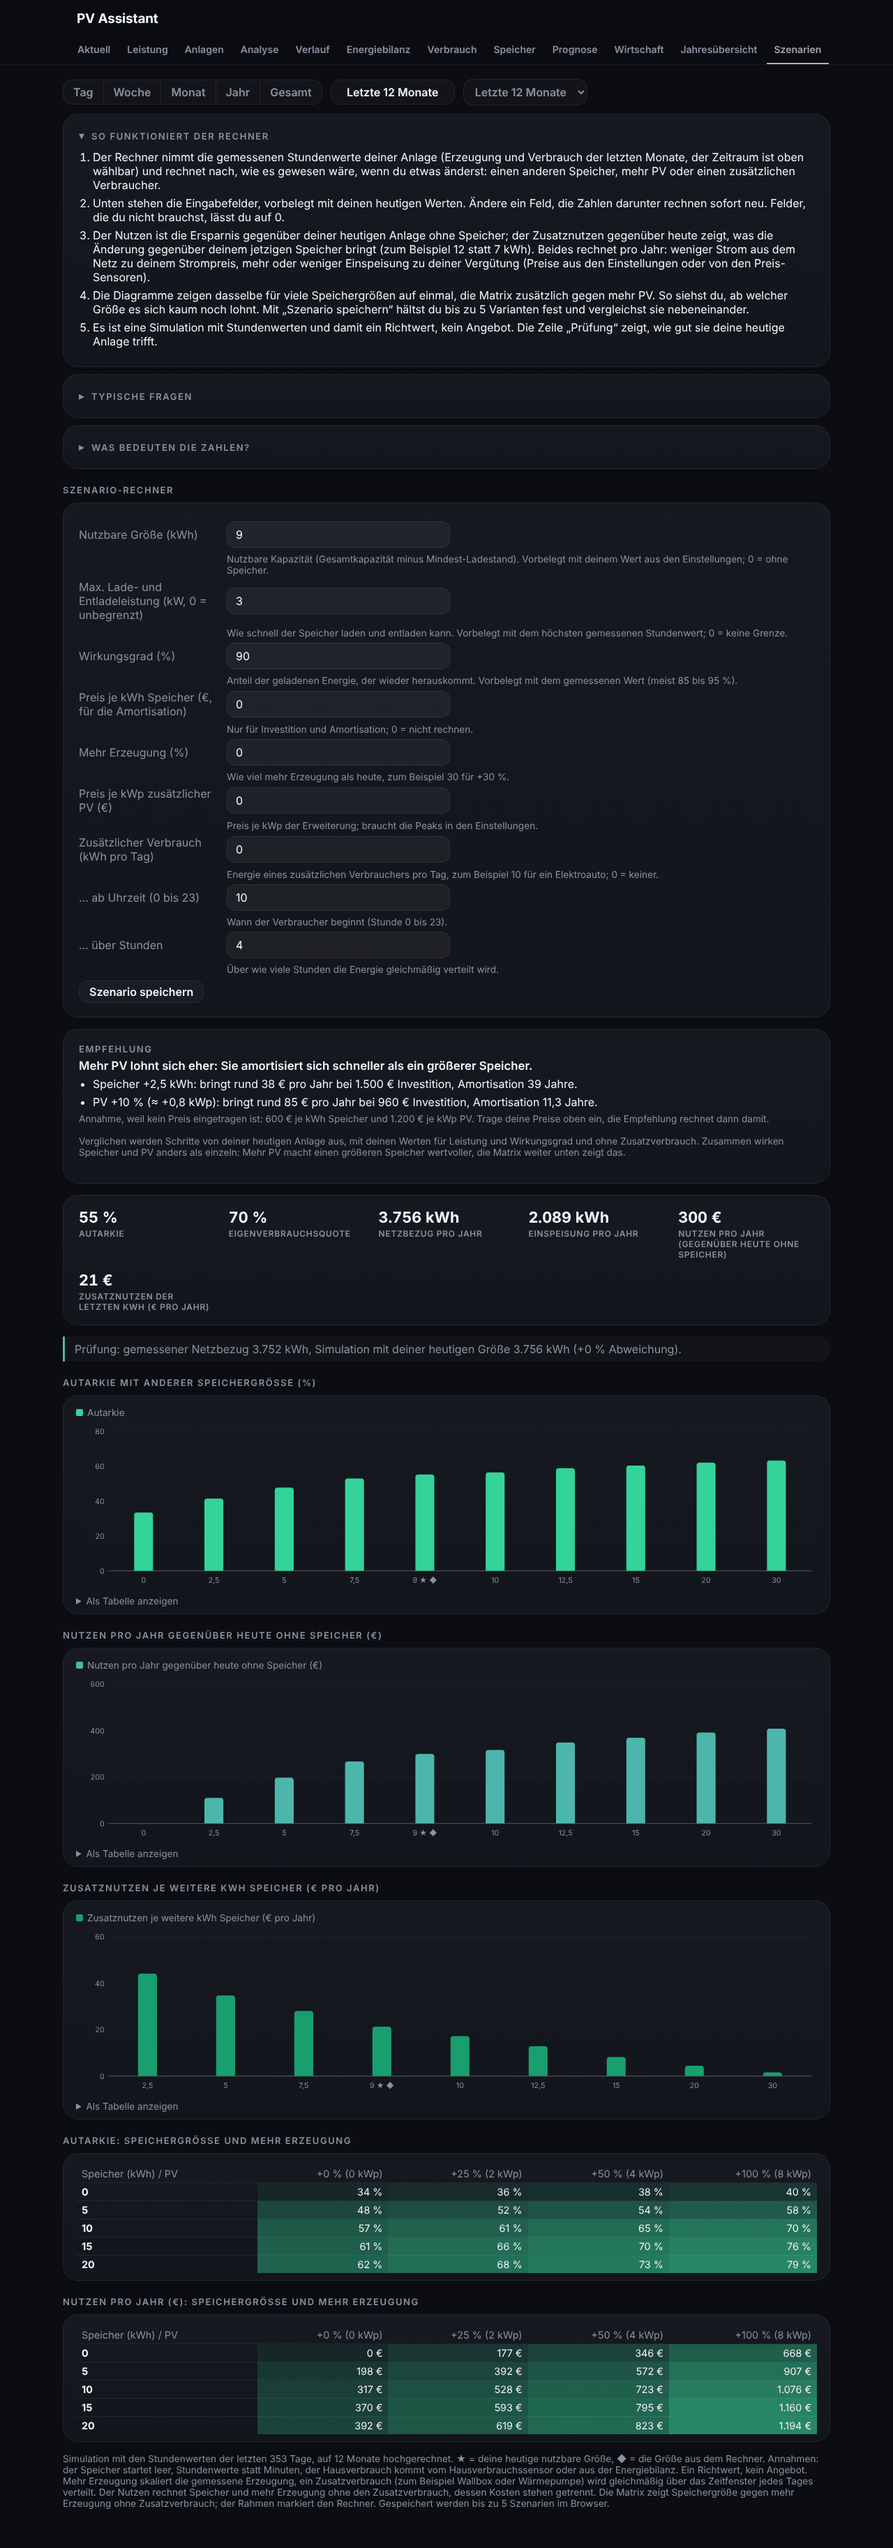
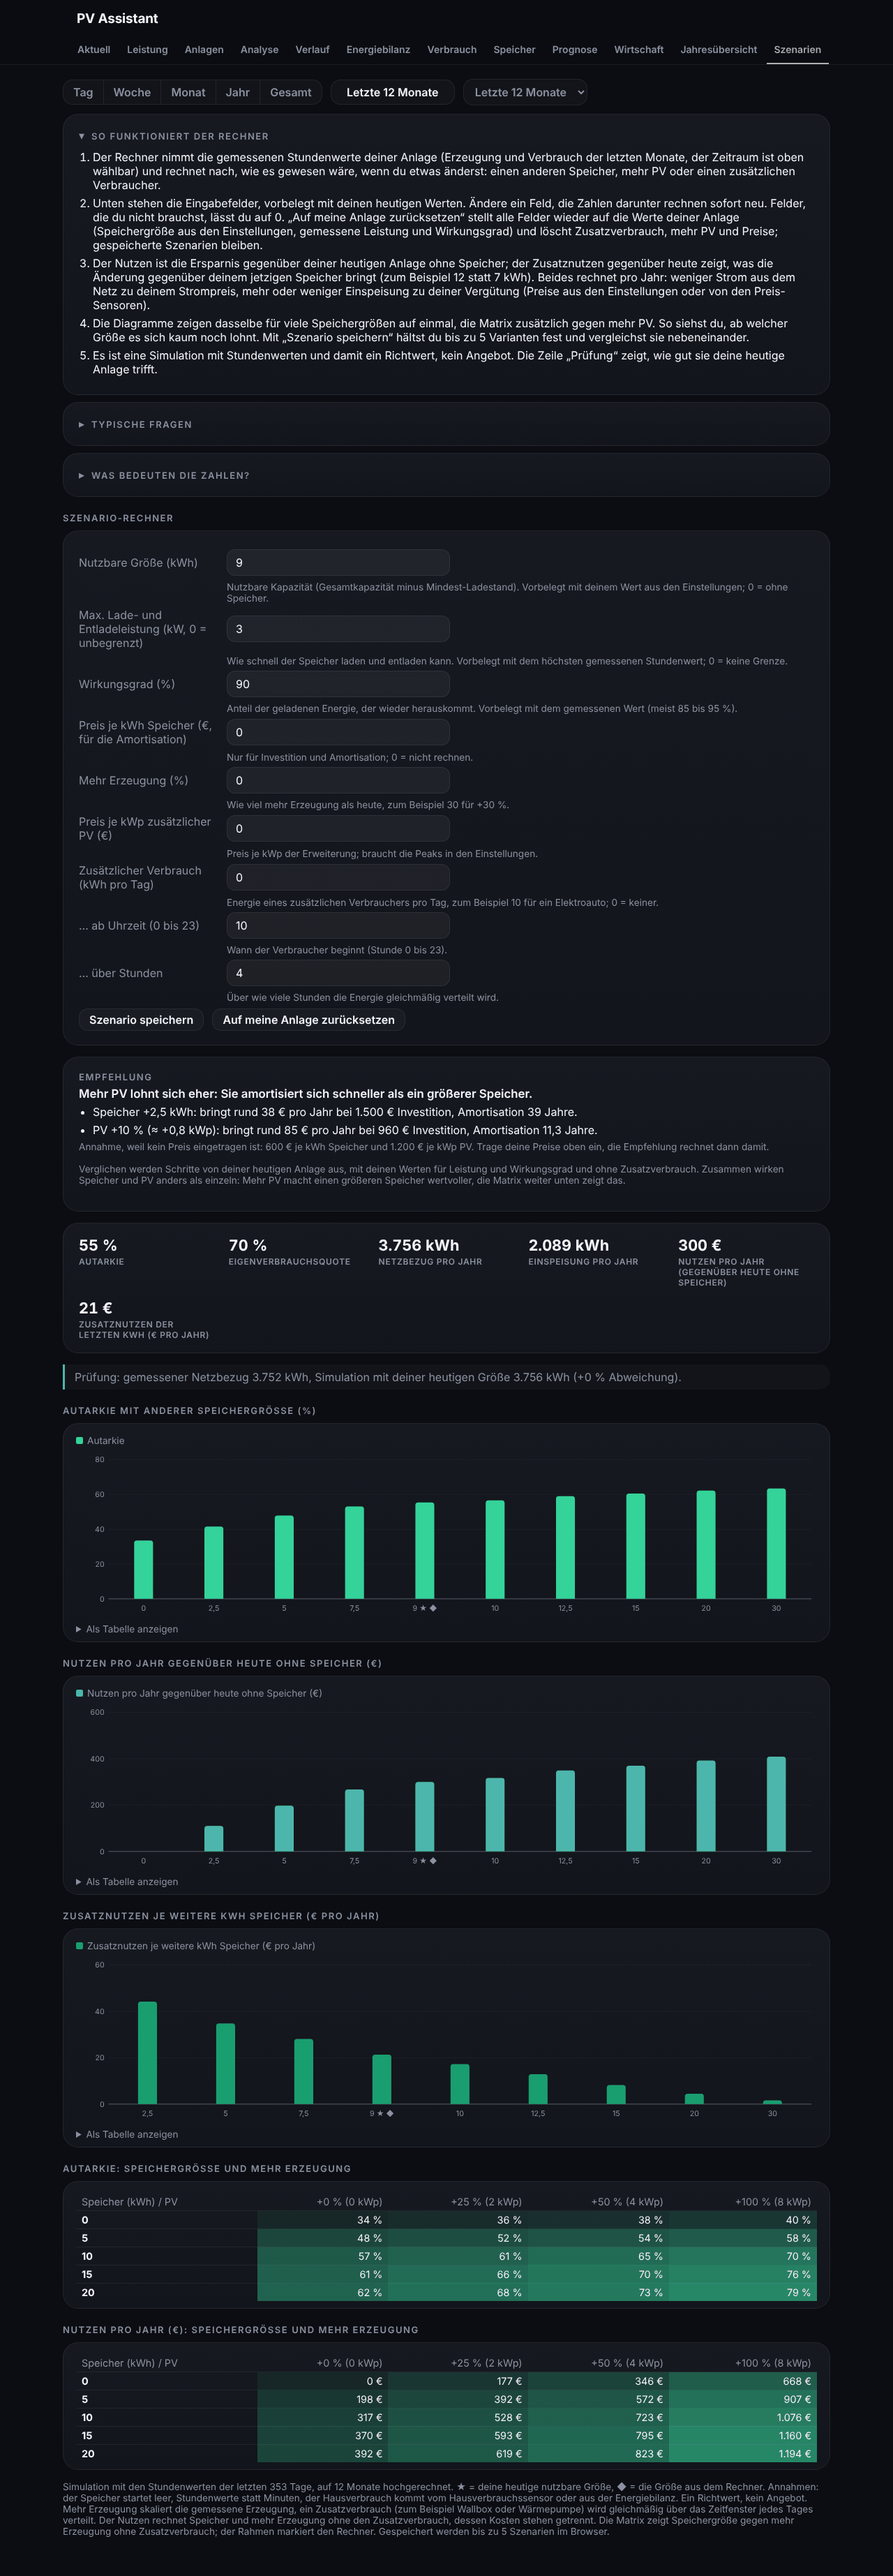
Scenario calculator: a reset button that puts the fields back to the values of the plant
Claude-Session: https://claude.ai/code/session_01TaJYM5KB2UjSXtUd6GEyfY

diff --git a/custom_components/pv_assistant/frontend/pv-assistant-texts.js b/custom_components/pv_assistant/frontend/pv-assistant-texts.js
@@ -145,7 +145,7 @@ export const T = {
     // explanation in the scenarios tab
     scnIntroTitle: "So funktioniert der Rechner",
     scnIntro1: "Der Rechner nimmt die gemessenen Stundenwerte deiner Anlage (Erzeugung und Verbrauch der letzten Monate, der Zeitraum ist oben wählbar) und rechnet nach, wie es gewesen wäre, wenn du etwas änderst: einen anderen Speicher, mehr PV oder einen zusätzlichen Verbraucher.",
-    scnIntro2: "Unten stehen die Eingabefelder, vorbelegt mit deinen heutigen Werten. Ändere ein Feld, die Zahlen darunter rechnen sofort neu. Felder, die du nicht brauchst, lässt du auf 0.",
+    scnIntro2: "Unten stehen die Eingabefelder, vorbelegt mit deinen heutigen Werten. Ändere ein Feld, die Zahlen darunter rechnen sofort neu. Felder, die du nicht brauchst, lässt du auf 0. „Auf meine Anlage zurücksetzen“ stellt alle Felder wieder auf die Werte deiner Anlage (Speichergröße aus den Einstellungen, gemessene Leistung und Wirkungsgrad) und löscht Zusatzverbrauch, mehr PV und Preise; gespeicherte Szenarien bleiben.",
     scnIntro3: "Der Nutzen ist die Ersparnis gegenüber deiner heutigen Anlage ohne Speicher; der Zusatznutzen gegenüber heute zeigt, was die Änderung gegenüber deinem jetzigen Speicher bringt (zum Beispiel 12 statt 7 kWh). Beides rechnet pro Jahr: weniger Strom aus dem Netz zu deinem Strompreis, mehr oder weniger Einspeisung zu deiner Vergütung (Preise aus den Einstellungen oder von den Preis-Sensoren).",
     scnIntro4: "Die Diagramme zeigen dasselbe für viele Speichergrößen auf einmal, die Matrix zusätzlich gegen mehr PV. So siehst du, ab welcher Größe es sich kaum noch lohnt. Mit „Szenario speichern“ hältst du bis zu 5 Varianten fest und vergleichst sie nebeneinander.",
     scnIntro5: "Es ist eine Simulation mit Stundenwerten und damit ein Richtwert, kein Angebot. Die Zeile „Prüfung“ zeigt, wie gut sie deine heutige Anlage trifft.",
@@ -185,6 +185,7 @@ export const T = {
     recPvNoPeak: "PV: ohne die Peaks der Strings in den Einstellungen lässt sich die Größe einer Erweiterung nicht in kWp und Kosten umrechnen.",
     recAssumed: "Annahme, weil kein Preis eingetragen ist: {s} je kWh Speicher und {p} je kWp PV. Trage deine Preise oben ein, die Empfehlung rechnet dann damit.",
     recNote: "Verglichen werden Schritte von deiner heutigen Anlage aus, mit deinen Werten für Leistung und Wirkungsgrad und ohne Zusatzverbrauch. Zusammen wirken Speicher und PV anders als einzeln: Mehr PV macht einen größeren Speicher wertvoller, die Matrix weiter unten zeigt das.",
+    simReset: "Auf meine Anlage zurücksetzen",
   },
   en: {
     title: "PV Assistant", energy: "Energy sensors (kWh)", power: "Power sensors (W)",
@@ -331,7 +332,7 @@ export const T = {
     // explanation in the scenarios tab
     scnIntroTitle: "How the calculator works",
     scnIntro1: "The calculator takes the measured hourly values of your plant (production and consumption of the last months, the range is selectable above) and works out what would have happened if you changed something: another storage, more PV or an additional consumer.",
-    scnIntro2: "The input fields are below, filled with your current values. Change a field and the numbers below recalculate at once. Leave the fields you do not need at 0.",
+    scnIntro2: "The input fields are below, filled with your current values. Change a field and the numbers below recalculate at once. Leave the fields you do not need at 0. “Reset to my plant” puts all fields back to the values of your plant (storage size from the settings, measured power and efficiency) and clears extra consumption, more PV and prices; saved scenarios stay.",
     scnIntro3: "The benefit is the saving against your plant as it is today without a storage; the extra benefit against today shows what the change brings compared with your current storage (for example 12 instead of 7 kWh). Both are calculated per year: less power from the grid at your electricity price, more or less feed-in at your tariff (prices from the settings or the price sensors).",
     scnIntro4: "The charts show the same for many storage sizes at once, the matrix also against more PV. That shows from which size it hardly pays off. With “Save the scenario” you keep up to 5 variants and compare them side by side.",
     scnIntro5: "It is a simulation with hourly values and therefore a guide value, not an offer. The line “Check” shows how well it matches your plant today.",
@@ -371,5 +372,6 @@ export const T = {
     recPvNoPeak: "PV: without the peaks of the strings in the settings the size of an extension cannot be converted into kWp and cost.",
     recAssumed: "Assumption because no price is entered: {s} per kWh of storage and {p} per kWp of PV. Enter your prices above and the recommendation uses them.",
     recNote: "Steps are compared from your plant as it is today, with your values for power and efficiency and without the extra consumption. Storage and PV act differently together than alone: more PV makes a bigger storage more valuable, the matrix further down shows that.",
+    simReset: "Reset to my plant",
   },
 };

diff --git a/custom_components/pv_assistant/frontend/pv-assistant-tab-scenarios.js b/custom_components/pv_assistant/frontend/pv-assistant-tab-scenarios.js
@@ -71,7 +71,7 @@ export class ScenariosPart {
       <div class="setcard" id="simform">
         ${SIM_ROWS.map(([id, label, hint, attrs]) => `<div class="setrow"><label for="${id}">${esc(this._t(label))}</label><input type="number" id="${id}" ${attrs}>
           <span class="hint">${esc(this._t(hint))}${id === "simpv" ? ' <b id="simpvhint"></b>' : ""}</span></div>`).join("")}
-        <div class="setbar"><button class="setbtn" id="simsave">${esc(this._t("simSave"))}</button></div></div>
+        <div class="setbar"><button class="setbtn" id="simsave">${esc(this._t("simSave"))}</button><button class="setbtn" id="simreset">${esc(this._t("simReset"))}</button></div></div>
       <div class="setcard" id="simrec" hidden></div>
       <div class="tiles" id="simtiles"></div><ul class="hints" id="simhints"></ul>
       <h3 class="ch">${esc(this._t("stoSimAut"))}</h3><div class="chart" id="sosimaut"></div>
@@ -90,6 +90,7 @@ export class ScenariosPart {
       });
     }
     box.querySelector("#simsave")?.addEventListener("click", () => this._simSave());
+    box.querySelector("#simreset")?.addEventListener("click", () => { if (this._scn) this._simSetState(this._simFresh()); });
   }
 
   // hourly values of the range, at most the last 12 months (at least 7 days are needed)
@@ -156,15 +157,28 @@ export class ScenariosPart {
     if (!this._simState) {
       let saved = null;
       try { saved = JSON.parse(localStorage.getItem("pv_assistant_sim") || "null"); } catch (e) { saved = null; }
-      const c = this._scn;
-      const fresh = { cap: Math.round((c.usableNow || 10) * 10) / 10, power: c.powerMeasured, eff: Math.round(c.effMeasured * 100), price: 0 };
-      this._simState = { ...SIM_DEFAULTS, ...(saved && Number.isFinite(saved.cap) ? saved : fresh) };
-      for (const [id, key2] of SIM_FIELDS) {
-        const input = root.getElementById(id);
-        if (input) input.value = Number.isFinite(this._simState[key2]) ? String(this._simState[key2]) : "";
-      }
+      // the first time a storage is suggested when there is none, so that the charts show something
+      const fresh = this._simFresh();
+      this._simSetState(saved && Number.isFinite(saved.cap) ? { ...SIM_DEFAULTS, ...saved } : { ...fresh, cap: fresh.cap || 10 }, false);
     }
     this._drawScenarioSim();
+  }
+
+  // the values of the plant as it is: the usable size of the storage, the measured power and efficiency, no extras, no prices
+  _simFresh() {
+    const c = this._scn;
+    return { ...SIM_DEFAULTS, cap: Math.round(c.usableNow * 10) / 10, power: c.powerMeasured, eff: Math.round(c.effMeasured * 100), price: 0 };
+  }
+
+  // puts the values into the form, remembers them and (unless it is the first drawing) calculates again
+  _simSetState(state, redraw = true) {
+    this._simState = state;
+    for (const [id, key] of SIM_FIELDS) {
+      const input = this._root.getElementById(id);
+      if (input) input.value = Number.isFinite(state[key]) ? String(state[key]) : "";
+    }
+    try { localStorage.setItem("pv_assistant_sim", JSON.stringify(state)); } catch (e) { /* storage unavailable */ }
+    if (redraw) this._drawScenarioSim();
   }
 
   _simNum(id) {
@@ -338,9 +352,7 @@ export class ScenariosPart {
           saved.splice(idx, 1);
           try { localStorage.setItem("pv_assistant_sim_saved", JSON.stringify(saved)); } catch (e) { /* storage unavailable */ }
         } else {
-          this._simState = { ...SIM_DEFAULTS, ...saved[idx].st };
-          for (const [id, key2] of SIM_FIELDS) { const input = root.getElementById(id); if (input) input.value = String(this._simState[key2]); }
-          try { localStorage.setItem("pv_assistant_sim", JSON.stringify(this._simState)); } catch (e) { /* storage unavailable */ }
+          this._simSetState({ ...SIM_DEFAULTS, ...saved[idx].st }, false);
         }
         this._drawScenarioSim();
       }));

diff --git a/wiki/Panel-Tabs.md b/wiki/Panel-Tabs.md
@@ -116,6 +116,7 @@ Monthly production of the selected year next to the monthly average, deviation i
 
 Needs production and the house consumption (or grid import and feed-in) as energy sensors; a storage is not required. It uses the hourly values of the range (at most the last 12 months, at least 7 days), scaled to a year.
 The calculator answers "is it worth to raise the storage from 7 to 12 kWh?": it calculates the hours of the range again with the new size and shows the **extra benefit against today** (what the change brings compared with your current storage), the investment of only the added kWh and the payback of the extension. A **recommendation** below the input fields compares, starting from your plant today, steps for the storage (+2.5, +5, +10 kWh) and for the PV (+10, +25, +50 %) and names the extension with the shortest payback (what takes longer than 25 years does not count); without entered prices it assumes 600 € per kWh and 1,200 € per kWp and says so.
+The button **Reset to my plant** puts all fields back to the values of your plant (usable storage size from the settings, measured power and efficiency) and clears more PV, extra consumption and prices; saved scenarios stay.
 The tab explains itself: at the top three folding boxes describe how the calculator works, answer typical questions (is a bigger storage worth it, what does a wallbox bring, is more PV worth it) and explain every number; every input field has a hint with the pre-filled value.
 - **Scenario calculator**: enter the usable size, the maximum charge and discharge power, the efficiency and, for the payback, the price per kWh (the values are remembered in the browser). The panel shows self-sufficiency, self-consumption rate, grid import and feed-in per year, the benefit per year against no storage, the extra benefit of the last kWh, the investment and the payback, plus charts of self-sufficiency, benefit and the **extra benefit per further kWh** over the storage size (★ = your size, ◆ = the size in the calculator). It uses the hourly values of the last 30 days to 12 months scaled to a year and checks itself: with your current size it simulates the grid import and compares it with the measured one (a deviation over 15 % means rough guide values). Beyond the storage the calculator can also try **more production** (in percent, with the kWp it means and a price per kWp for the payback) and an **extra consumption** such as a wallbox or a heat pump (kWh per day over a time window of the day): it shows how much of it PV and storage cover and what it costs per kWh. A **matrix** shows self-sufficiency and benefit per year for storage size against more production, and up to 5 **scenarios can be saved** (in the browser) and compared side by side. Needs production and the house consumption (or grid import and feed-in) as energy sensors; a guide value, not an offer
 
@@ -242,6 +243,7 @@ Monatserzeugung des gewählten Jahres neben dem Monatsschnitt, Abweichung in Pro
 
 Braucht Erzeugung und Hausverbrauch (oder Netzbezug und Einspeisung) als Energiesensoren; ein Speicher ist nicht nötig. Gerechnet wird mit den Stundenwerten des Zeitraums (höchstens die letzten 12 Monate, mindestens 7 Tage), auf ein Jahr hochgerechnet.
 Der Rechner beantwortet „lohnt es sich, den Speicher von 7 auf 12 kWh zu erhöhen?“: Er rechnet die Stunden des Zeitraums mit der neuen Größe noch einmal und zeigt den **Zusatznutzen gegenüber heute** (was die Änderung gegenüber deinem jetzigen Speicher bringt), die Investition nur für die zusätzlichen kWh und die Amortisation der Erweiterung. Eine **Empfehlung** unter den Eingabefeldern vergleicht von deiner heutigen Anlage aus Schritte für den Speicher (+2,5, +5, +10 kWh) und für die PV (+10, +25, +50 %) und nennt die Erweiterung mit der kürzesten Amortisation (was länger als 25 Jahre braucht, zählt nicht); ohne eingetragene Preise nimmt sie 600 € je kWh und 1.200 € je kWp an und sagt das.
+Der Knopf **Auf meine Anlage zurücksetzen** stellt alle Felder wieder auf die Werte deiner Anlage (nutzbare Speichergröße aus den Einstellungen, gemessene Leistung und Wirkungsgrad) und löscht mehr PV, Zusatzverbrauch und Preise; gespeicherte Szenarien bleiben.
 Der Tab erklärt sich selbst: Oben beschreiben drei aufklappbare Kästen, wie der Rechner funktioniert, beantworten typische Fragen (lohnt sich ein größerer Speicher, was bringt eine Wallbox, lohnt sich mehr PV) und erklären jede Zahl; jedes Eingabefeld hat einen Hinweis mit dem vorbelegten Wert.
 - **Szenario-Rechner**: nutzbare Größe, maximale Lade- und Entladeleistung, Wirkungsgrad und, für die Amortisation, der Preis je kWh eingeben (die Werte merkt sich der Browser). Das Panel zeigt Autarkie, Eigenverbrauchsquote, Netzbezug und Einspeisung pro Jahr, den Nutzen pro Jahr gegenüber ohne Speicher, den Zusatznutzen der letzten kWh, die Investition und die Amortisation, dazu Diagramme von Autarkie, Nutzen und dem **Zusatznutzen je weitere kWh** über der Speichergröße (★ = deine Größe, ◆ = die Größe im Rechner). Gerechnet wird mit den Stundenwerten der letzten 30 Tage bis 12 Monate, auf ein Jahr hochgerechnet, mit eingebauter Prüfung: Mit deiner heutigen Größe wird der Netzbezug simuliert und mit dem gemessenen verglichen (über 15 % Abweichung bedeuten grobe Richtwerte). Neben dem Speicher kann der Rechner auch **mehr Erzeugung** (in Prozent, mit den kWp, die das bedeutet, und einem Preis je kWp für die Amortisation) und einen **Zusatzverbrauch** wie Wallbox oder Wärmepumpe (kWh pro Tag über ein Zeitfenster des Tages) durchspielen: Er zeigt, wie viel davon PV und Speicher decken und was es je kWh kostet. Eine **Matrix** zeigt Autarkie und Nutzen pro Jahr für Speichergröße gegen mehr Erzeugung, und bis zu 5 **Szenarien lassen sich speichern** (im Browser) und nebeneinander vergleichen. Braucht Erzeugung und Hausverbrauch (oder Netzbezug und Einspeisung) als Energiesensoren; ein Richtwert, kein Angebot
 
